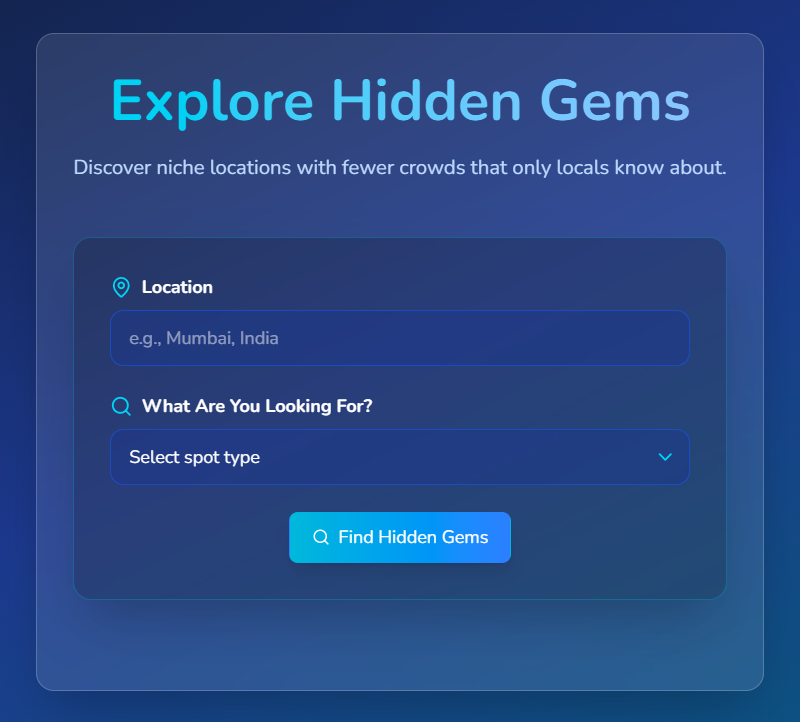
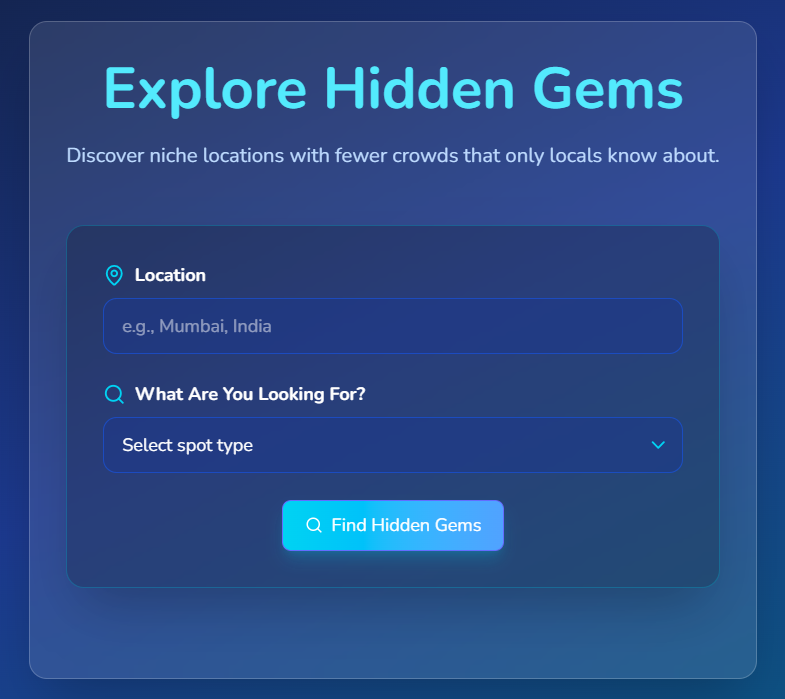
features edited

diff --git a/frontend/src/Components/TravelAdvisory.jsx b/frontend/src/Components/TravelAdvisory.jsx
@@ -1,5 +1,5 @@
 import React, { useState, useEffect } from 'react';
-import { ChevronDown, ExternalLink, AlertTriangle } from 'lucide-react';
+import { ChevronDown, ExternalLink, AlertTriangle, Globe, MapPin } from 'lucide-react';
 import FloatingBlob from './FloatingBlob';
 
 const TravelAdvisory = () => {
@@ -106,8 +106,7 @@ const TravelAdvisory = () => {
         <div className="bg-white/10 backdrop-blur-lg rounded-2xl p-8 shadow-2xl border border-white/20">
           {/* Header */}
           <div className="text-center mb-8">
-            <div className="flex items-center justify-center mb-4">
-              <AlertTriangle className="text-cyan-300 w-12 h-12 mr-3" />
+            <div className="flex items-center justify-center mb-2">
               <h1 className="text-4xl text-cyan-300 font-bold">Travel Advisory</h1>
             </div>
             <p className="text-blue-100 text-lg">
@@ -126,102 +125,97 @@ const TravelAdvisory = () => {
           {/* Your Nationality */}
           <div className="bg-black/20 rounded-2xl border border-cyan-500/30  p-8 mb-8 shadow-2xl">
             <div className="mb-6">
-            <label className="block text-white text-sm font-medium mb-2">
-              Your Nationality
-            </label>
-            <div className="w-full px-4 py-3 pr-10 bg-blue-900/50 border border-blue-600/50 rounded-xl text-white focus:outline-none focus:ring-2 focus:ring-cyan-400 focus:border-transparent appearance-none cursor-pointer">
-              <div className="flex items-center">
-                {userNationalityCountry && (
-                  <span className="text-2xl mr-3">{userNationalityCountry.flag}</span>
-                )}
-                <span className="text-white font-medium">
-                  {userNationalityCountry ? userNationalityCountry.name : (userNationality || 'Loading...')}
-                </span>
+              <label className="flex items-center text-white font-semibold mb-2">
+                <Globe className="w-5 h-5 mr-2 text-cyan-400"/>
+                Your Nationality
+              </label>
+              <div className="w-full px-4 py-3 pr-10 bg-blue-900/50 border border-blue-600/50 rounded-xl text-white focus:outline-none focus:ring-2 focus:ring-cyan-400 focus:border-transparent appearance-none cursor-pointer">
+                <div className="flex items-center">
+                  {userNationalityCountry && (
+                    <span className="text-2xl mr-3">{userNationalityCountry.flag}</span>
+                  )}
+                  <span className="text-white font-medium">
+                    {userNationalityCountry ? userNationalityCountry.name : (userNationality || 'Loading...')}
+                  </span>
+                </div>
               </div>
             </div>
-          </div>
 
-          {/* Destination Country Dropdown */}
-          <div className="mb-6">
-            <label className="block text-white text-sm font-medium mb-2">
-              Select Destination Country
-            </label>
-            <div className="relative">
-              <button
-                onClick={() => setIsDropdownOpen(!isDropdownOpen)}
-                className="w-full bg-white border border-white/20 rounded-lg p-4 text-left text-white hover:bg-white/20 transition-colors duration-200 flex items-center justify-between"
-              >
-                <span className="flex items-center">
-                  {selectedCountry ? (
-                    <>
-                      <span className="text-2xl mr-3">{selectedCountry.flag}</span>
-                      <span>{selectedCountry.name}</span>
-                    </>
-                  ) : (
-                    'Select a country'
-                  )}
-                </span>
-                <ChevronDown className={`w-5 h-5 transition-transform duration-200 ${isDropdownOpen ? 'rotate-180' : ''}`} />
-              </button>
+            {/* Destination Country Dropdown */}
+            <div className="mb-6">
+              <label className="flex items-center text-white font-semibold mb-2">
+                <MapPin className="w-5 h-5 mr-2 text-cyan-400" />
+                Select Destination Country
+              </label>
+              <div className="relative">
+                <button
+                  onClick={() => setIsDropdownOpen(!isDropdownOpen)}
+                  className="w-full px-4 py-3 pr-10 !bg-blue-900/60 border border-blue-600/50 rounded-xl text-white focus:outline-none focus:ring-2 focus:ring-cyan-400 focus:border-transparent appearance-none cursor-pointer flex items-center justify-between"
+                >
+                  <span className="flex items-center">
+                    {selectedCountry ? (
+                      <>
+                        <span className="text-2xl mr-3">{selectedCountry.flag}</span>
+                        <span>{selectedCountry.name}</span>
+                      </>
+                    ) : (
+                      <span className="text-blue-300">Select a country</span>
+                    )}
+                  </span>
+                  <ChevronDown className="w-5 h-5 text-cyan-400 absolute right-3 top-1/2 transform -translate-y-1/2 pointer-events-none" />
+                </button>
 
-              {/* Dropdown */}
-              {isDropdownOpen && (
-                <div className="absolute top-full left-0 right-0 mt-2 bg-white border border-white/20 rounded-lg shadow-xl z-50 max-h-80 overflow-hidden">
-                  {/* Search Input */}
-                  <div className="p-3 border-b border-gray-200 bg-gray-50">
-                    <input
-                      type="text"
-                      placeholder="Search countries..."
-                      value={searchTerm}
-                      onChange={(e) => setSearchTerm(e.target.value)}
-                      className="w-full px-3 py-2 border border-gray-300 rounded-lg focus:outline-none focus:ring-2 focus:ring-blue-500 text-gray-900 bg-white"
-                    />
+
+                {/* Dropdown */}
+                {isDropdownOpen && (
+                  <div className="absolute top-full left-0 right-0 mt-2 bg-blue-900/50 border border-blue-600/50 rounded-xl shadow-xl z-50 overflow-hidden">
+                    {/* Search Input */}
+                    <div className="p-3 border-b border-blue-600/50 bg-blue-900/50">
+                      <input
+                        type="text"
+                        placeholder="Search countries..."
+                        value={searchTerm}
+                        onChange={(e) => setSearchTerm(e.target.value)}
+                        className="w-full px-3 py-2 bg-blue-900 text-white border border-blue-600 rounded-lg focus:outline-none focus:ring-2 focus:ring-cyan-400"
+                      />
+                    </div>
+
+                    {/* Countries List */}
+                    <div className="max-h-60 overflow-y-auto bg-blue-900/50">
+                      {filteredCountries.map((country) => (
+                        <div
+                          key={country.flag}
+                          onClick={() => handleCountrySelect(country)}
+                          className="w-full px-4 py-3 text-left hover:bg-blue-800 transition-colors duration-150 flex items-center text-white border-b border-blue-800 cursor-pointer"
+                        >
+                          <span className="text-2xl mr-3">{country.flag}</span>
+                          <span className="font-medium">{country.name}</span>
+                        </div>
+                      ))}
+                    </div>
                   </div>
+                )}
+              </div>
+            </div>
 
-                  {/* Countries List */}
-                  <div className="max-h-60 overflow-y-auto bg-white">
-                    {filteredCountries.map((country) => (
-                      <div
-                        key={country.flag}
-                        onClick={() => handleCountrySelect(country)}
-                        className="w-full px-4 py-3 text-left hover:bg-blue-50 transition-colors duration-150 flex items-center text-gray-900 border-b border-gray-100 last:border-b-0 bg-white cursor-pointer"
-                        style={{ backgroundColor: 'white', color: 'black' }}
-                      >
-                        <span className="text-2xl mr-3">{country.flag}</span>
-                        <span className="font-medium">{country.name}</span>
-                      </div>
-                    ))}
-                  </div>
+            {/* Check Advisory Button */}
+            <button
+              onClick={handleCheckAdvisory}
+              disabled={!selectedCountry || isLoading}
+              className="w-full bg-gradient-to-r from-cyan-500 to-blue-500 disabled:bg-gray-600 disabled:cursor-not-allowed hover:from-cyan-600 hover:to-blue-600 text-white font-medium py-4 px-6 rounded-lg transition-colors duration-200 flex items-center justify-center"
+            >
+              {isLoading ? (
+                <div className="flex items-center">
+                  <div className="animate-spin rounded-full h-5 w-5 border-b-2 border-white mr-3"></div>
+                  Getting Travel Advisory...
+                </div>
+              ) : (
+                <div className="flex items-center">
+                  <ExternalLink className="w-5 h-5 mr-2" />
+                  Check Travel Advisory
                 </div>
               )}
-            </div>
-          </div>
-
-          {/* Check Advisory Button */}
-          <button
-            onClick={handleCheckAdvisory}
-            disabled={!selectedCountry || isLoading}
-            className="w-full bg-blue-600 hover:bg-blue-700 disabled:bg-gray-600 disabled:cursor-not-allowed text-white font-medium py-4 px-6 rounded-lg transition-colors duration-200 flex items-center justify-center"
-          >
-            {isLoading ? (
-              <div className="flex items-center">
-                <div className="animate-spin rounded-full h-5 w-5 border-b-2 border-white mr-3"></div>
-                Getting Travel Advisory...
-              </div>
-            ) : (
-              <div className="flex items-center">
-                <ExternalLink className="w-5 h-5 mr-2" />
-                Check Travel Advisory
-              </div>
-            )}
-          </button>
-
-          {/* Info Text */}
-          <div className="mt-6 text-center">
-            <p className="text-blue-100 text-sm">
-              You will be redirected to the official government travel advisory website
-            </p>
-          </div>
+            </button>
           </div>
         </div>
       </div>

diff --git a/frontend/src/Components/Home.jsx b/frontend/src/Components/Home.jsx
@@ -55,7 +55,15 @@ const Home = () => {
     gradient: ""
   },
   {
-    title: "Explore Popular Hotspots",
+    title: "Check Travel Advisories Worldwide",
+    description: "Stay informed with official advisories",
+    icon: <AlertTriangle className="w-8 h-8" />,
+    route: "/advisory",
+    image: adv,
+    gradient: ""
+  },
+  {
+    title: "Visit Iconic Locations",
     description: "Discover trending destinations and must-visit attractions",
     icon: <MapPin className="w-8 h-8" />,
     route: "/popular",
@@ -70,14 +78,7 @@ const Home = () => {
     image: hidden,
     gradient: ""
   },
-  {
-    title: "Check Travel Advisories Worldwide",
-    description: "Stay informed with official advisories",
-    icon: <AlertTriangle className="w-8 h-8" />,
-    route: "/advisory",
-    image: adv,
-    gradient: ""
-  }
+  
 ];
 
 

diff --git a/frontend/src/Components/Niche.jsx b/frontend/src/Components/Niche.jsx
@@ -64,7 +64,7 @@ const Niche = () => {
       <div className="max-w-2xl  mx-auto bg-white/10 backdrop-blur-lg rounded-2xl p-8 shadow-2xl border border-white/20">
         {/* Header Section */}
         <div className="text-center mb-12">
-          <h1 className="text-5xl font-bold text-transparent bg-clip-text bg-gradient-to-r from-cyan-400 to-blue-300 mb-4">
+          <h1 className="text-5xl font-bold  text-cyan-300 mb-3">
             Explore Hidden Gems
           </h1>
           <p className="text-blue-200 text-lg max-w-2xl mx-auto">

diff --git a/frontend/src/Components/Popular.jsx b/frontend/src/Components/Popular.jsx
@@ -64,7 +64,7 @@ const Popular = () => {
       <div className="max-w-2xl mt-25 mx-auto bg-white/10 backdrop-blur-lg rounded-2xl p-8 shadow-2xl border border-white/20">
         {/* Header */}
         <div className="text-center mb-12">
-          <h1 className="text-5xl font-bold text-transparent bg-clip-text bg-gradient-to-r from-cyan-400 to-blue-400 mb-4">
+          <h1 className="text-5xl font-bold text-cyan-300 mb-4">
             Explore Popular Spots
           </h1>
           <p className="text-blue-200 text-lg">

diff --git a/frontend/src/Components/TravelPlannerAI.jsx b/frontend/src/Components/TravelPlannerAI.jsx
@@ -273,7 +273,7 @@ const TravelPlannerAI = () => {
         <div className="text-center mb-12">
           <h1 className="text-5xl font-bold text-cyan-300 mb-2">Generate Itinerary with Smart AI</h1>
           {/* <p className="text-xl text-cyan-300 mb-2"></p> */}
-          <p className="text-gray-300">
+          <p className="text-gray-300 text-lg">
             Discover personalized day-by-day plans crafted for your dream destination.
           </p>
         </div>
